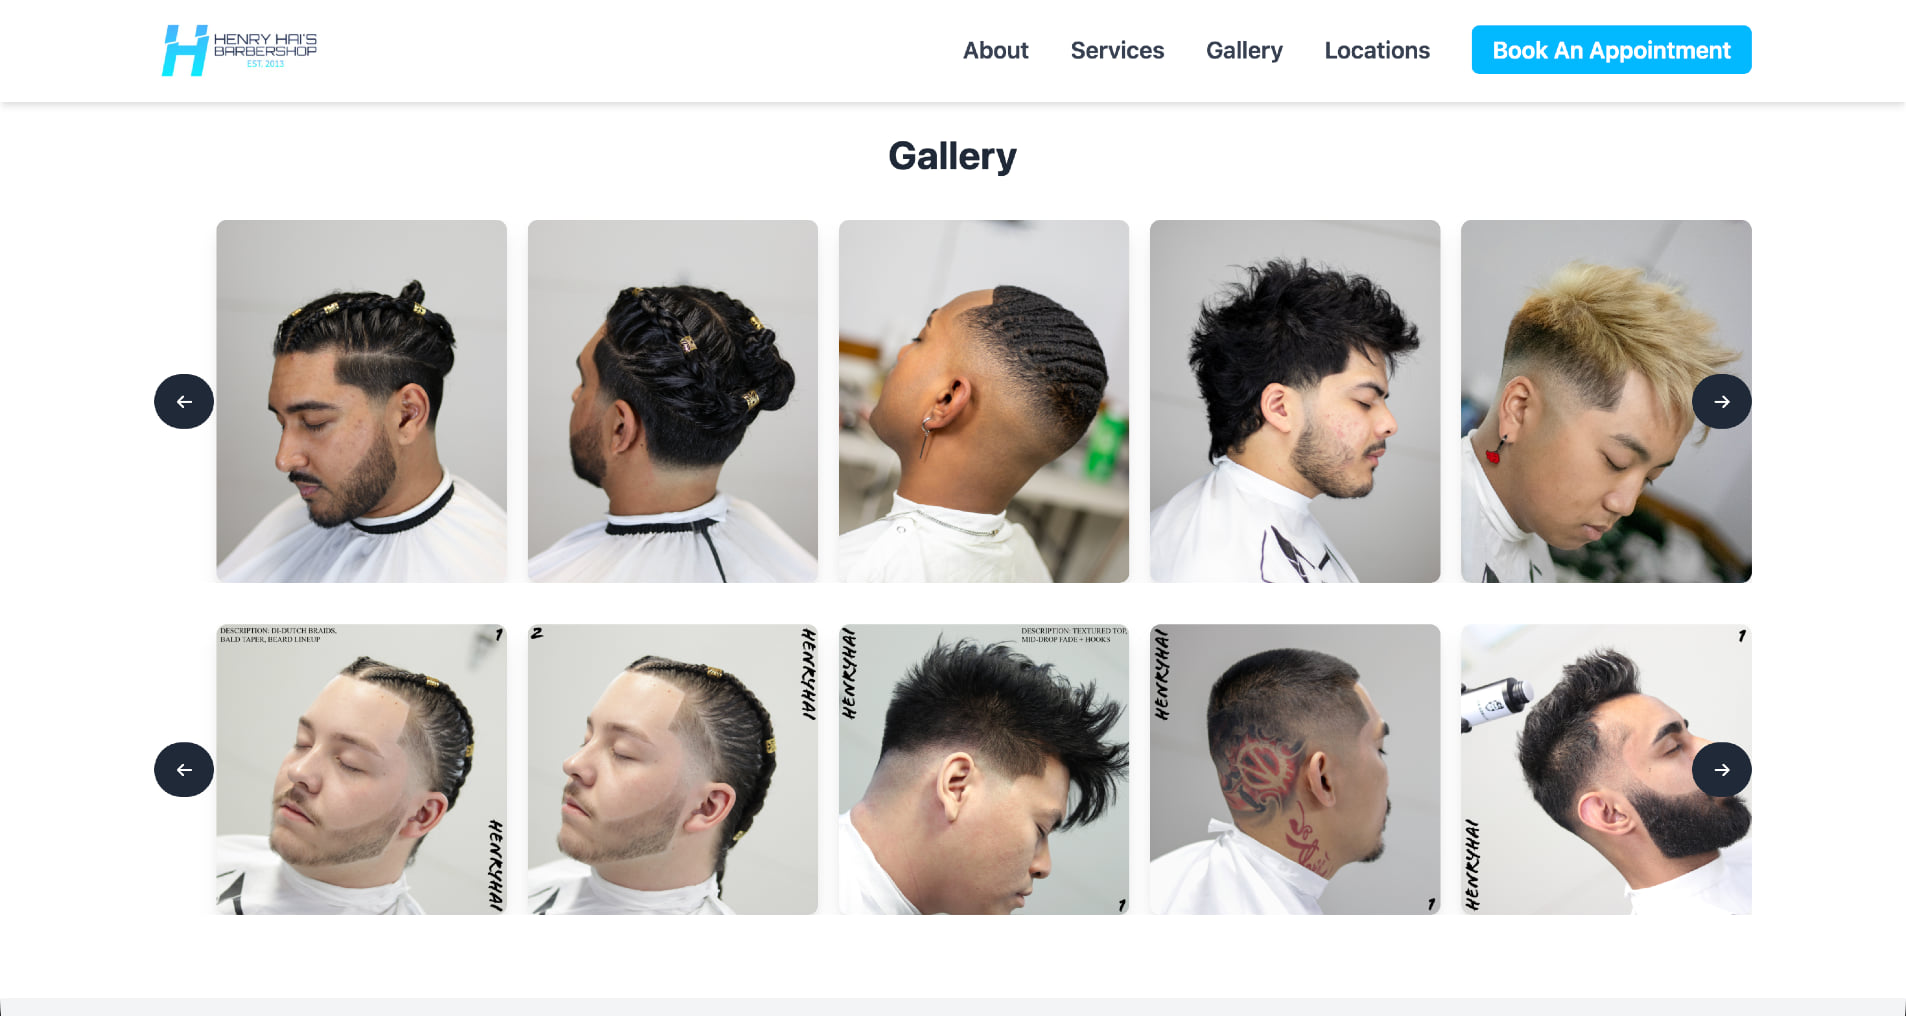
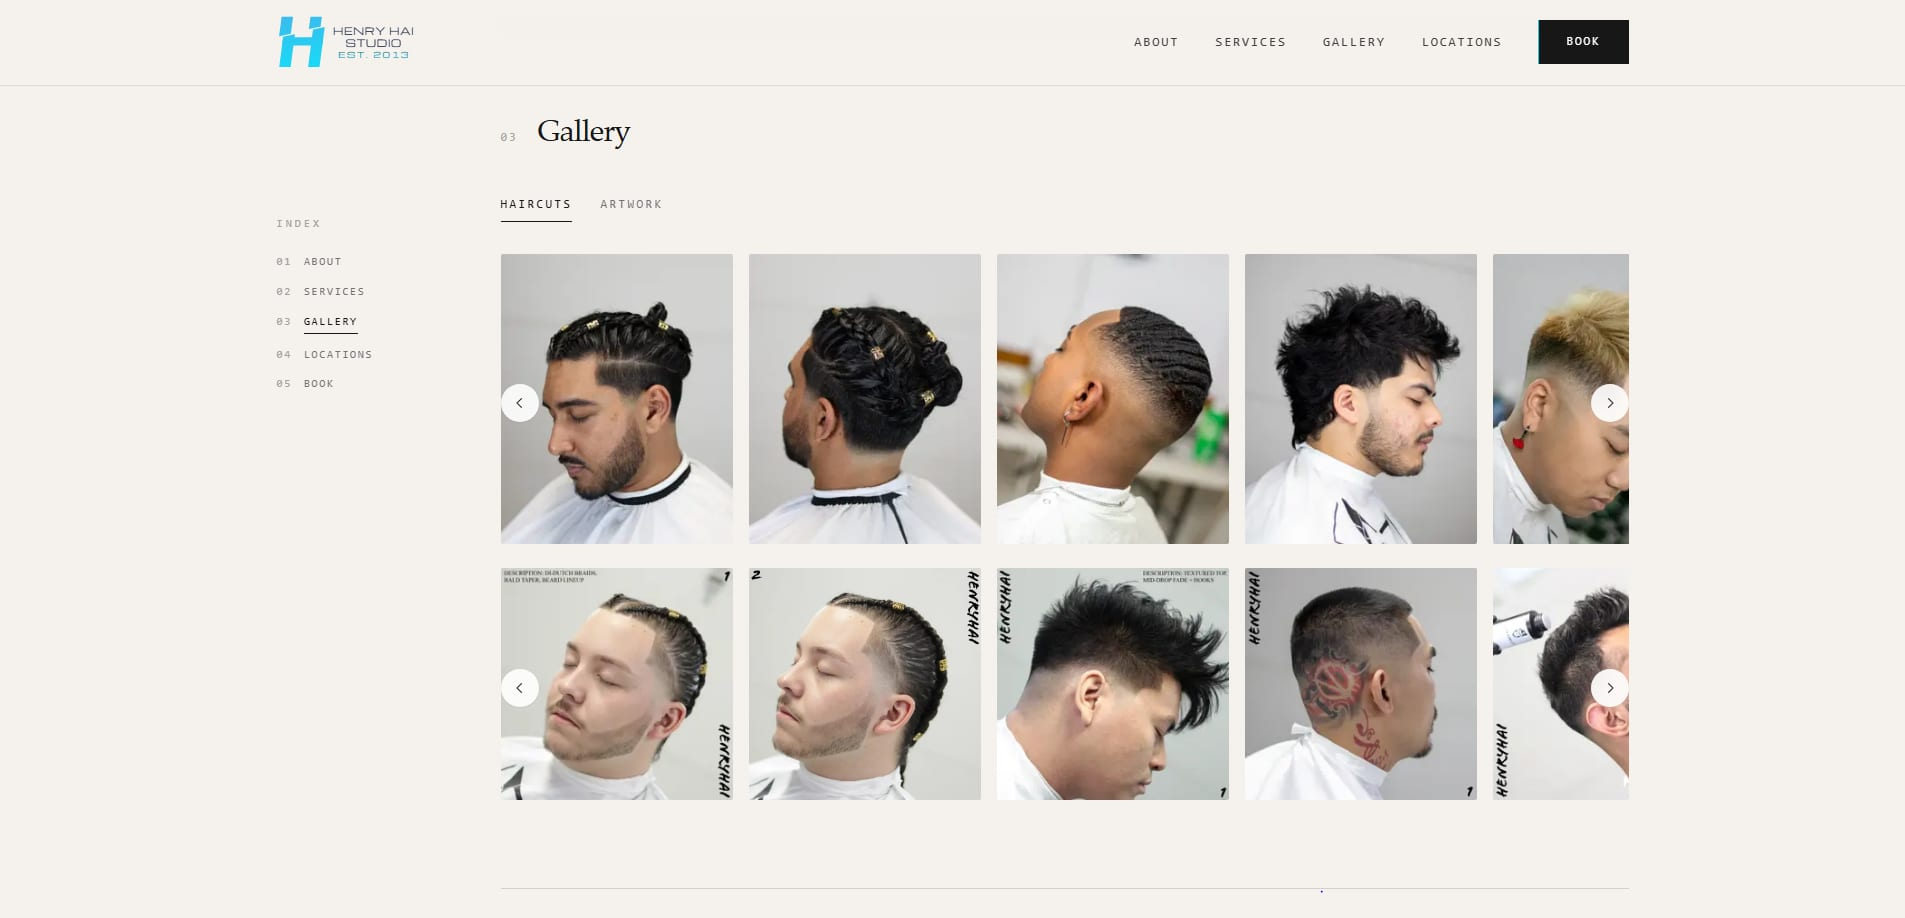
Reshoot the site screenshots from the deployed site
The six in the README were of the pre-Next.js site and no longer resemble
what visitors see: different hero, different logo, different services
layout, no tabbed gallery. These come from henryhaistudio.com as it stands.

Adds a seventh for the confirmation state, which nothing previously showed
and which is the last thing a client sees.

All JPEG, per the note about PNG screenshots of photographs being several
times larger and living in git history forever. The seven together are
smaller than the six they replace.

The dashboard image is deliberately untouched. The current one has its
client names and phone numbers redacted, and this repo is public.

diff --git a/README.md b/README.md
@@ -12,12 +12,13 @@ The earlier hand-rolled static version is still up on GitHub Pages from a separa
 
 - **Previous site:** [henry-hai.github.io/barber_website/](https://henry-hai.github.io/barber_website/) ([source](https://github.com/henry-hai/barber_website))
 
-![Landing page with hero image and navigation](screenshots/01-hero.jpg)
+![Landing page with the triptych hero and navigation](screenshots/01-hero.jpg)
 ![Services and pricing list](screenshots/02-services.jpg)
-![Gallery carousel of haircut work](screenshots/03-gallery.jpg)
-![Locations section with Irvine and Milpitas shops](screenshots/04-locations.jpg)
-![Booking policies and appointment request form](screenshots/05-booking-form.jpg)
-![Rest of the booking form with submit and footer](screenshots/06-booking-form-footer.jpg)
+![Tabbed gallery of haircut work](screenshots/03-gallery.jpg)
+![Locations section with Milpitas and Irvine shops](screenshots/04-locations.jpg)
+![Appointment request form with three preferred slots](screenshots/05-booking-form.jpg)
+![Booking policies, submit and footer](screenshots/06-booking-form-footer.jpg)
+![Confirmation shown after a booking is accepted](screenshots/07-confirmation.jpg)
 
 ## Appointments Dashboard
 
